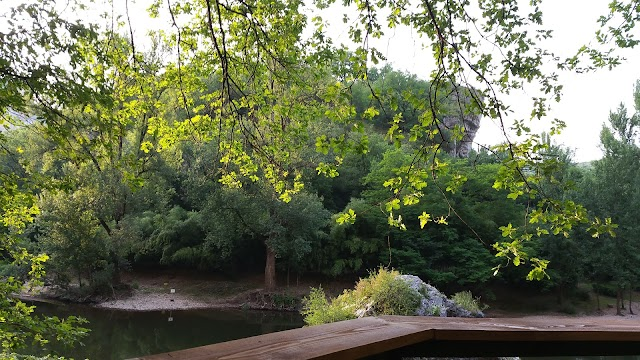
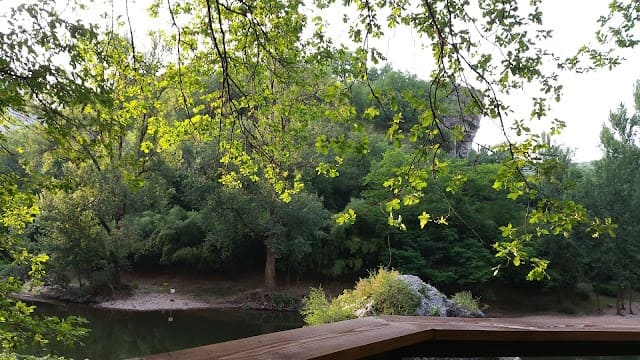
some small perfection

diff --git a/src/app/page/home/home.component.scss b/src/app/page/home/home.component.scss
@@ -1,4 +1,4 @@
-@import '../../../variables';
+@import "../../../variables";
 
 // Variables locales
 $transition-base: all 0.3s ease;
@@ -34,7 +34,7 @@ $nav-item-border: 2px solid rgba(255, 255, 255, 0.3);
   height: 100vh;
   width: 100%;
   overflow: hidden;
-  background: url("/assets/bg.jpg") no-repeat center center fixed;
+  background: url("/assets/bg.webp") no-repeat center center fixed;
   background-size: cover;
   display: flex;
   flex-direction: column;
@@ -161,7 +161,7 @@ $nav-item-border: 2px solid rgba(255, 255, 255, 0.3);
     margin-bottom: 0.5rem;
     filter: invert(1);
     transition: $transition-base;
-    
+
     &:hover {
       transform: rotate(15deg) scale(1.1);
     }
@@ -174,7 +174,7 @@ $nav-item-border: 2px solid rgba(255, 255, 255, 0.3);
     transition: $transition-base;
     line-height: 1.2;
     text-align: center;
-    
+
     &:hover {
       transform: scale(1.05);
       text-shadow: 0 0 10px rgba(255, 255, 255, 0.5);
@@ -201,41 +201,52 @@ $nav-item-border: 2px solid rgba(255, 255, 255, 0.3);
 
 // Animations
 @keyframes fadeInUp {
-  from { opacity: 0; transform: translateY(20px); }
-  to { opacity: 1; transform: translateY(0); }
+  from {
+    opacity: 0;
+    transform: translateY(20px);
+  }
+  to {
+    opacity: 1;
+    transform: translateY(0);
+  }
 }
 
 @keyframes float {
-  0%, 100% { transform: translateY(0); }
-  50% { transform: translateY(-10px); }
+  0%,
+  100% {
+    transform: translateY(0);
+  }
+  50% {
+    transform: translateY(-10px);
+  }
 }
 
 // Media Queries - Regroupées par type de dispositif
 @media (max-width: 480px) {
   .rustic-title {
     font-size: clamp(2.2rem, 7vw, 2.5rem);
-    
+
     &::after {
       font-size: clamp(1.1rem, 3.5vw, 1.2rem);
     }
   }
-  
+
   .flex-nav {
     gap: 0.5rem;
     padding: 0.5rem;
   }
-  
+
   .nav-item {
     flex-basis: clamp(70px, 30%, 100px);
     min-height: 70px;
     padding: 0.6rem 0.4rem;
-    
+
     .nav-icon {
       width: clamp(1.8rem, 4.5vw, 2rem);
       height: clamp(1.8rem, 4.5vw, 2rem);
       margin-bottom: 0.3rem;
     }
-    
+
     .nav-title {
       font-size: clamp(0.7rem, 1.6vw, 0.8rem);
     }
@@ -250,7 +261,7 @@ $nav-item-border: 2px solid rgba(255, 255, 255, 0.3);
   .nav-item {
     flex-basis: clamp(90px, 25%, 150px);
   }
-  
+
   .rustic-title {
     margin-bottom: 2rem;
   }
@@ -299,10 +310,13 @@ $nav-item-border: 2px solid rgba(255, 255, 255, 0.3);
     margin-bottom: 0;
     max-height: 90%;
     overflow-y: auto;
-    
+
     &::-webkit-scrollbar {
       width: 5px;
-      &-thumb { background-color: rgba(255, 255, 255, 0.3); border-radius: 10px; }
+      &-thumb {
+        background-color: rgba(255, 255, 255, 0.3);
+        border-radius: 10px;
+      }
     }
   }
 
@@ -319,15 +333,25 @@ $nav-item-border: 2px solid rgba(255, 255, 255, 0.3);
   .nav-item {
     animation: none !important;
     transition: background-color 0.3s ease;
-    
-    &:hover { transform: scale(1.02); }
+
+    &:hover {
+      transform: scale(1.02);
+    }
   }
-  
+
   .rustic-title {
-    .letter { transition: none; }
-    &:hover .letter { transform: none; }
-    &::after { transition: none; }
-    &:hover::after { transform: none; }
+    .letter {
+      transition: none;
+    }
+    &:hover .letter {
+      transform: none;
+    }
+    &::after {
+      transition: none;
+    }
+    &:hover::after {
+      transform: none;
+    }
   }
 }
 
@@ -335,8 +359,8 @@ $nav-item-border: 2px solid rgba(255, 255, 255, 0.3);
 @supports (padding-top: env(safe-area-inset-top)) {
   .fullscreen-wrapper {
     padding: calc(env(safe-area-inset-top) + clamp(0.5rem, 3vw, 2rem))
-            calc(env(safe-area-inset-right) + clamp(0.5rem, 3vw, 2rem))
-            calc(env(safe-area-inset-bottom) + clamp(0.5rem, 3vw, 2rem))
-            calc(env(safe-area-inset-left) + clamp(0.5rem, 3vw, 2rem));
+      calc(env(safe-area-inset-right) + clamp(0.5rem, 3vw, 2rem))
+      calc(env(safe-area-inset-bottom) + clamp(0.5rem, 3vw, 2rem))
+      calc(env(safe-area-inset-left) + clamp(0.5rem, 3vw, 2rem));
   }
 }

diff --git a/src/app/page/home/home.component.ts b/src/app/page/home/home.component.ts
@@ -57,13 +57,13 @@ export class HomeComponent implements OnInit, AfterViewInit, OnDestroy {
     {
       icon: '/assets/icon/instagram.png',
       title: 'Instagram',
-      component: InstagramComponent
+      component: InstagramComponent,
     },
     {
-      icon: '/assets/icon/reservation.png',  
+      icon: '/assets/icon/reservation.png',
       title: 'Réservation',
-      type: 'route',   
-      route: '/reservation'
+      type: 'route',
+      route: '/reservation',
     },
   ];
 
@@ -73,7 +73,7 @@ export class HomeComponent implements OnInit, AfterViewInit, OnDestroy {
     public dialog: MatDialog,
     private router: Router,
     @Inject(PLATFORM_ID) private platformId: Object
-  ) { }
+  ) {}
 
   ngOnInit() {
     if (isPlatformBrowser(this.platformId)) {
@@ -100,7 +100,9 @@ export class HomeComponent implements OnInit, AfterViewInit, OnDestroy {
 
   private initAnimations(): void {
     // Vérifier si l'utilisateur préfère les mouvements réduits
-    const prefersReducedMotion = window.matchMedia('(prefers-reduced-motion: reduce)').matches;
+    const prefersReducedMotion = window.matchMedia(
+      '(prefers-reduced-motion: reduce)'
+    ).matches;
 
     // Base timeline avec des paramètres optimisés
     this.timeline = gsap.timeline({
@@ -109,8 +111,8 @@ export class HomeComponent implements OnInit, AfterViewInit, OnDestroy {
         // Utiliser des valeurs CSS transformées pour améliorer les performances
         force3D: true,
         // Réduire la qualité des animations sur les appareils à faibles performances
-        overwrite: 'auto'
-      }
+        overwrite: 'auto',
+      },
     });
 
     // Animations simplifiées si l'utilisateur préfère moins d'animations
@@ -158,7 +160,7 @@ export class HomeComponent implements OnInit, AfterViewInit, OnDestroy {
       );
     }
   }
-  
+
   openDialog(item: any) {
     if (item.type === 'route') {
       // Naviguer vers la route

diff --git a/src/app/page/home/home.component.html b/src/app/page/home/home.component.html
@@ -1,25 +1,30 @@
 <div class="fullscreen-wrapper">
-    <div class="content-overlay">
-        <h1 class="rustic-title">
-            <span class="letter">M</span>
-            <span class="letter">a</span>
-            <span class="letter">n</span>
-            <span class="letter">j</span>
-            <span class="letter">o</span>
-            <span class="letter">c</span>
-            <span class="letter">a</span>
-            <span class="letter">r</span>
-            <span class="letter">n</span>
-        </h1>
-    </div>
+  <div class="content-overlay">
+    <h1 class="rustic-title">
+      <span class="letter">M</span>
+      <span class="letter">a</span>
+      <span class="letter">n</span>
+      <span class="letter">j</span>
+      <span class="letter">o</span>
+      <span class="letter">c</span>
+      <span class="letter">a</span>
+      <span class="letter">r</span>
+      <span class="letter">n</span>
+    </h1>
+  </div>
 
-    <nav class="flex-nav">
-        <button *ngFor="let item of navItems; let i = index" class="nav-item" [attr.data-info]="item.title"
-            (click)="openDialog(item)" [style.--item-index]="i">
-            <div class="nav-content">
-                <img [src]="item.icon" [alt]="item.title" class="nav-icon">
-                <span class="nav-title">{{ item.title }}</span>
-            </div>
-        </button>
-    </nav>
+  <nav class="flex-nav">
+    <button
+      *ngFor="let item of navItems; let i = index"
+      class="nav-item"
+      [attr.data-info]="item.title"
+      (click)="openDialog(item)"
+      [style.--item-index]="i"
+    >
+      <div class="nav-content">
+        <img [src]="item.icon" [alt]="item.title" class="nav-icon" />
+        <span class="nav-title">{{ item.title }}</span>
+      </div>
+    </button>
+  </nav>
 </div>
